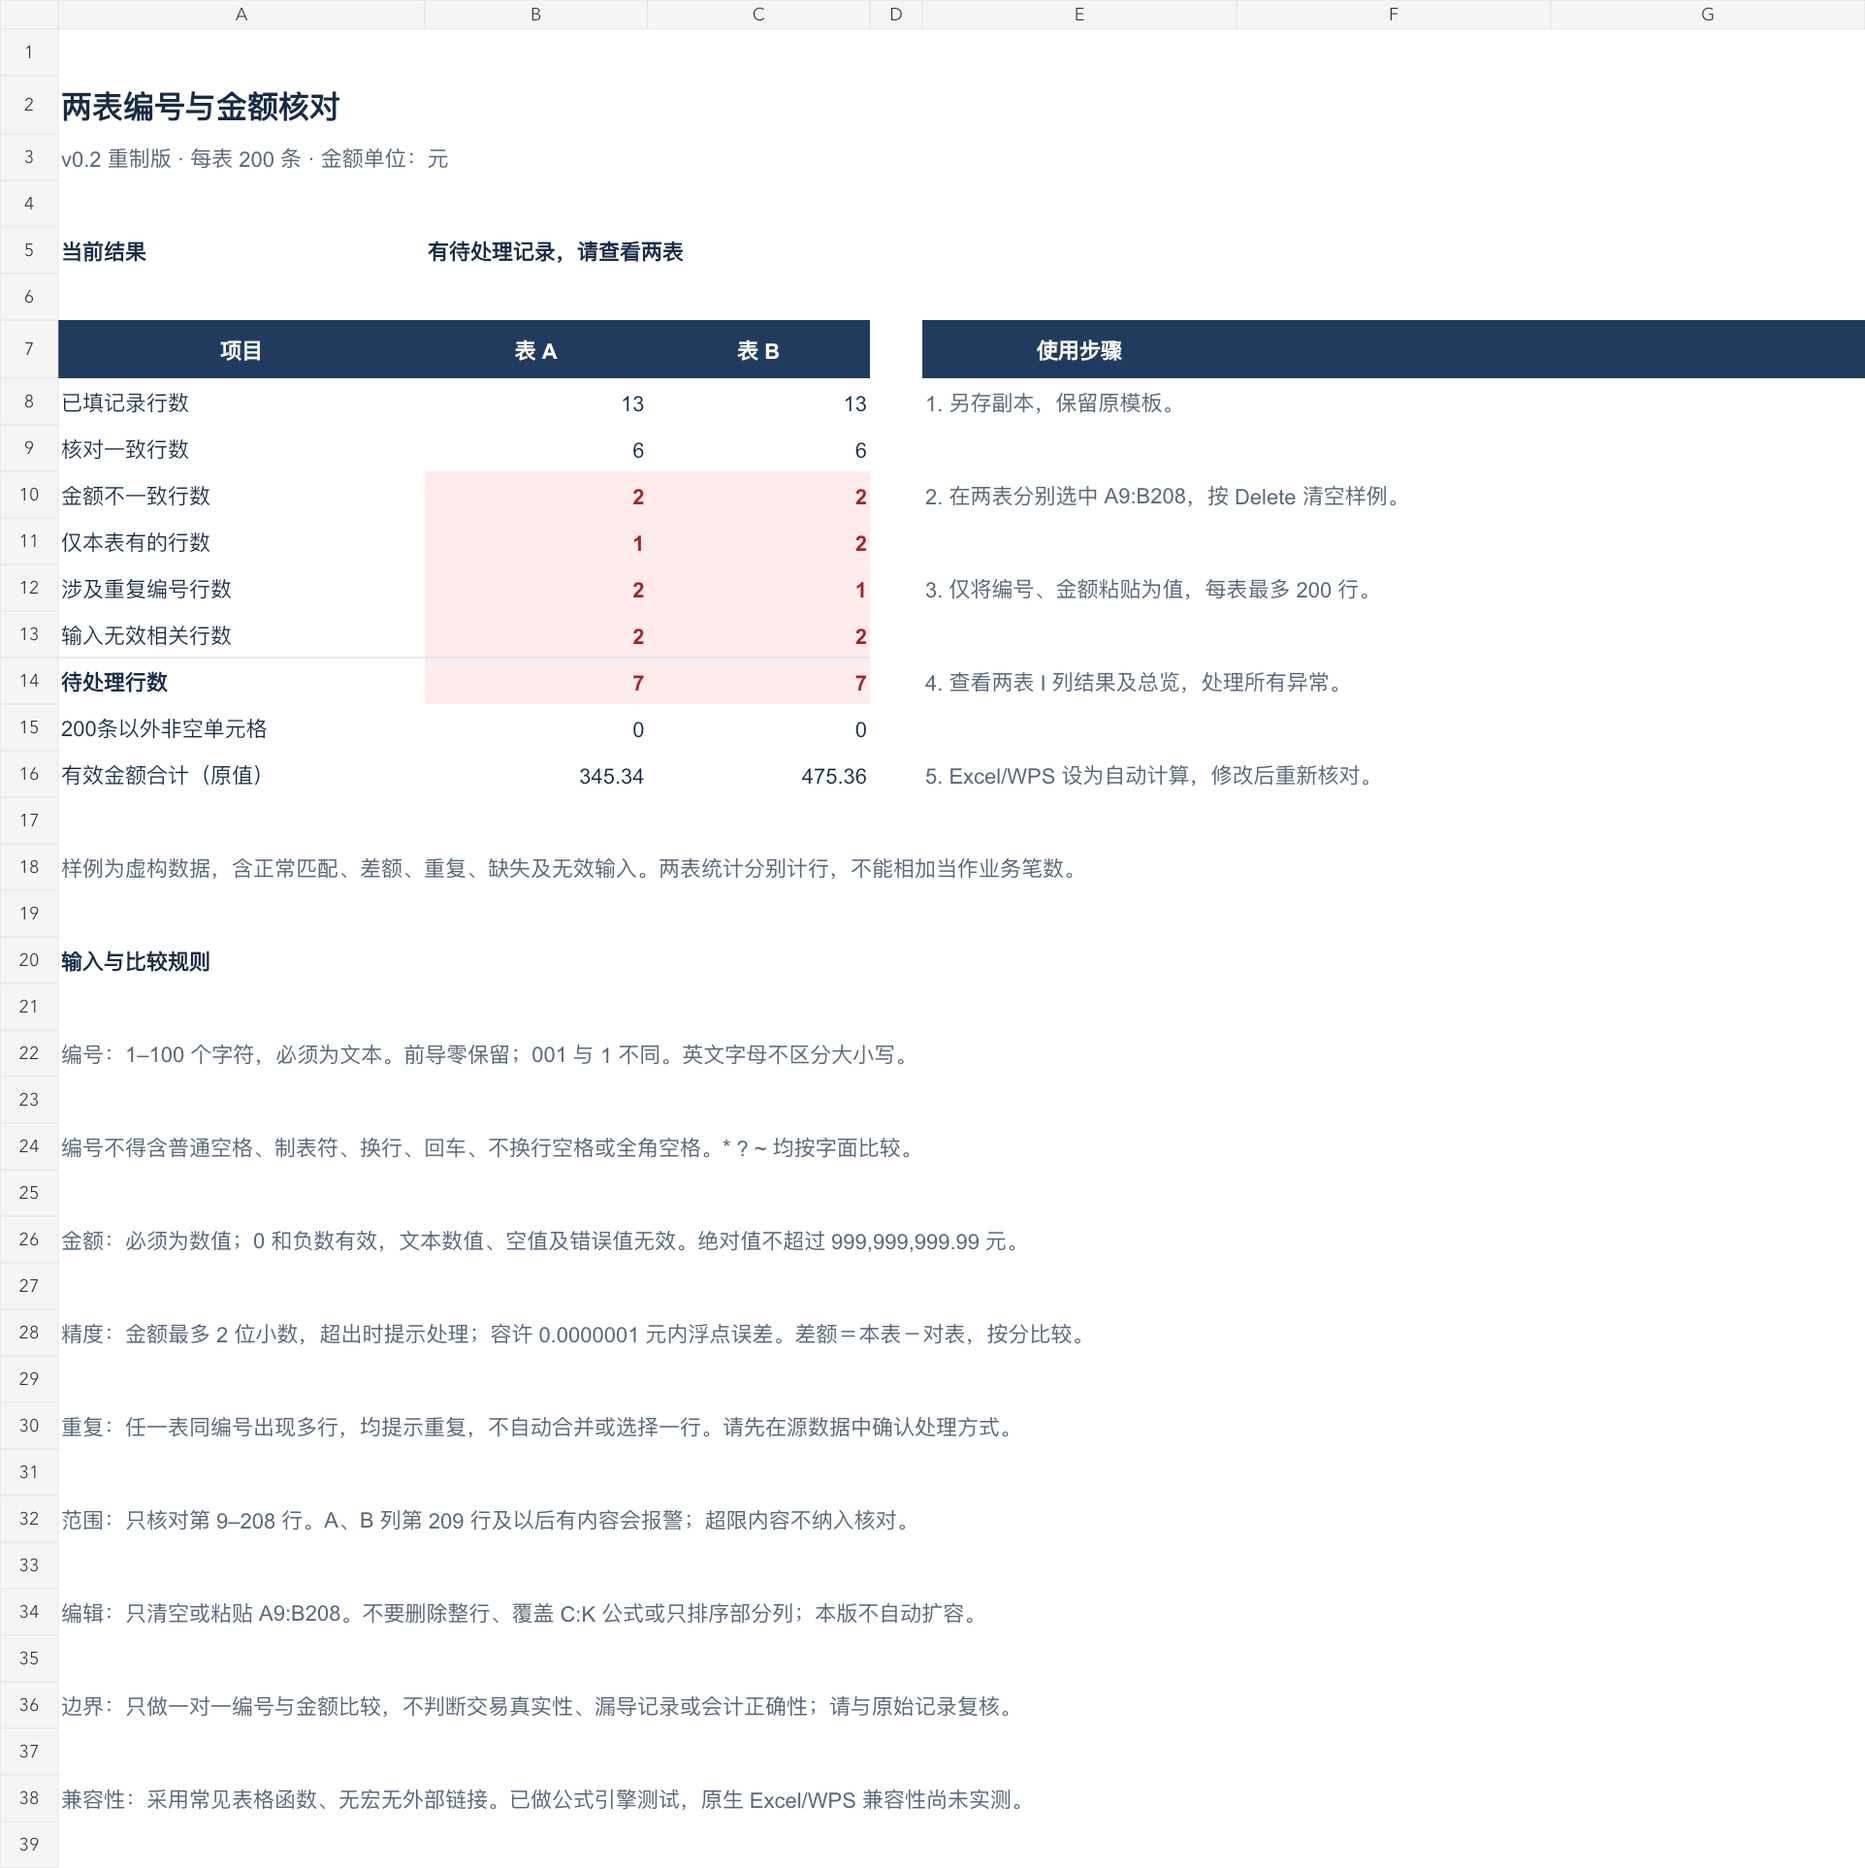
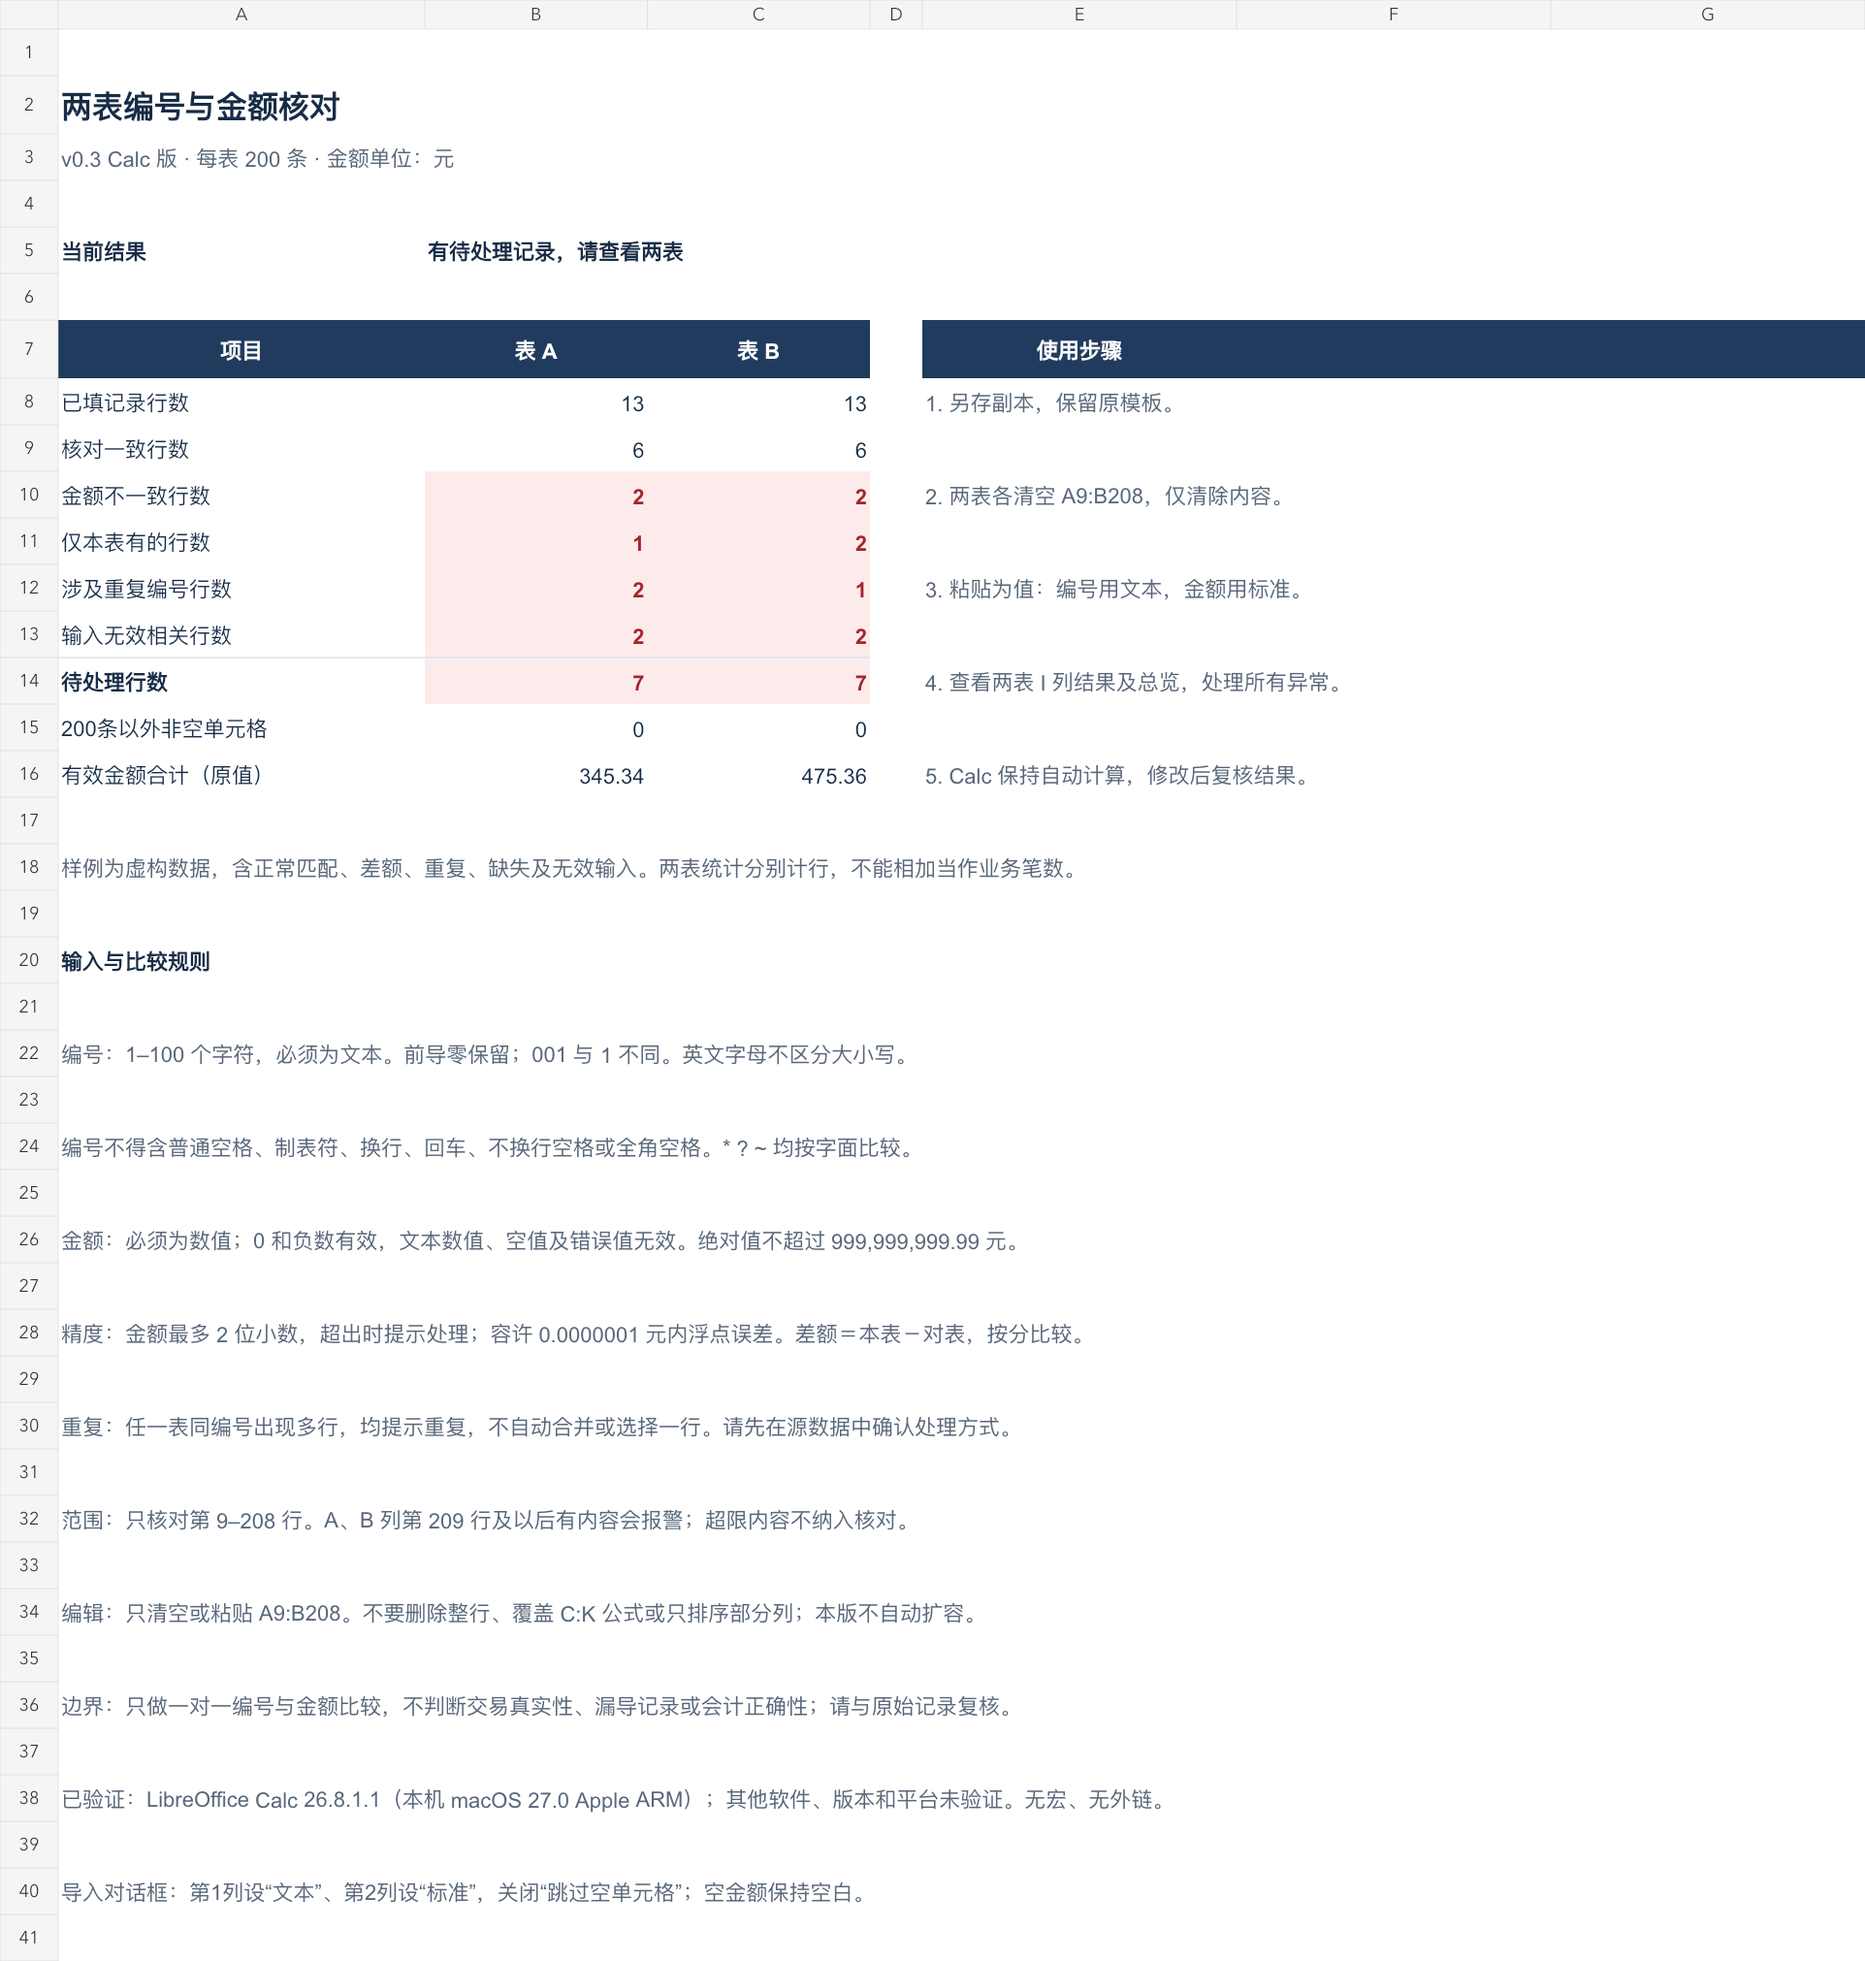
Update v0.3 previews and bounded Calc validation results

diff --git a/README.md b/README.md
@@ -2,7 +2,7 @@
 
 ## 两表编号与金额核对模板
 
-这是简表工具坊制作的原创表格作品，当前版本为 **v0.2 重制版**。作品用于辅助检查两份编号与金额清单，分别提示金额差异、单边缺失、重复编号和无效输入，方便使用者回到原始记录逐项复核。
+这是简表工具坊制作的原创表格作品，当前版本为 **v0.3 Calc 版**。作品用于辅助检查两份编号与金额清单，分别提示金额差异、单边缺失、重复编号和无效输入，方便使用者回到原始记录逐项复核。
 
 工作簿包含“核对总览”“表A”“表B”三个工作表。每表支持 200 行数据，填写编号和金额后，可在 I 列查看逐行结果，在总览查看汇总。
 
@@ -28,6 +28,10 @@
 
 ## 当前进度
 
-当前为作品展示与上线准备阶段。**Excel、WPS 实机兼容性和付款后文件自动交付尚待验证，商品尚未开放购买。**
+已在本机 **LibreOffice Calc 26.8.1.1、macOS 27.0（Apple ARM）** 实测通过下列场景：样例金额修改联动、16 行异常组合、200 行容量与第 201 行超限提示；金额修改和异常组合还完成了保存为 XLSX、关闭重开的检查。v0.3 最终文件的副本也已实际打开、强制重算并保存，计算结果与预期一致。
+
+结论限于上述环境和已测操作。Excel、WPS 及其他版本或系统尚未实测，批量 TSV 粘贴流程尚未完整验证。
+
+**当前为作品展示与上线准备阶段。爱发电创作者认证已提交，仍待审核；付款后文件自动交付尚待验证，商品尚未开放购买。**
 
 [简表工具坊的爱发电主页](https://afdian.com/a/jianbiaotools)
